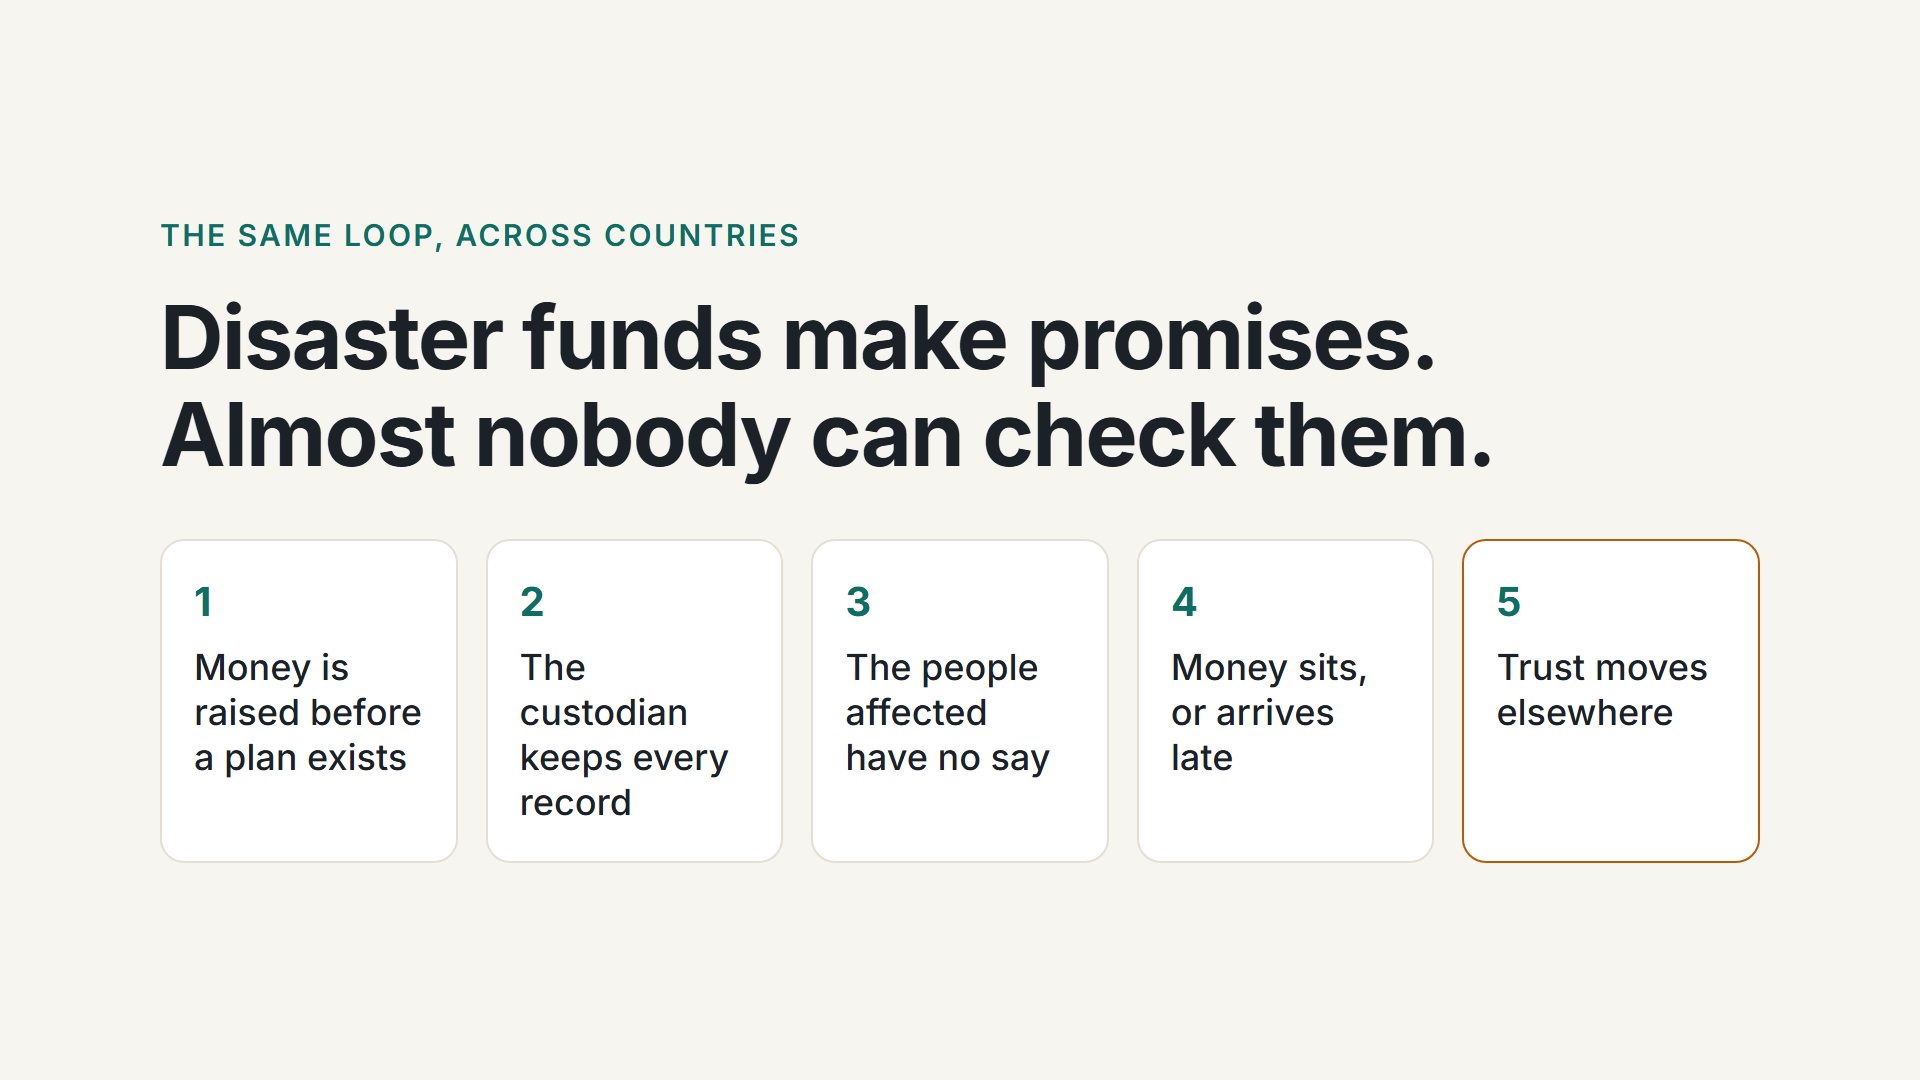
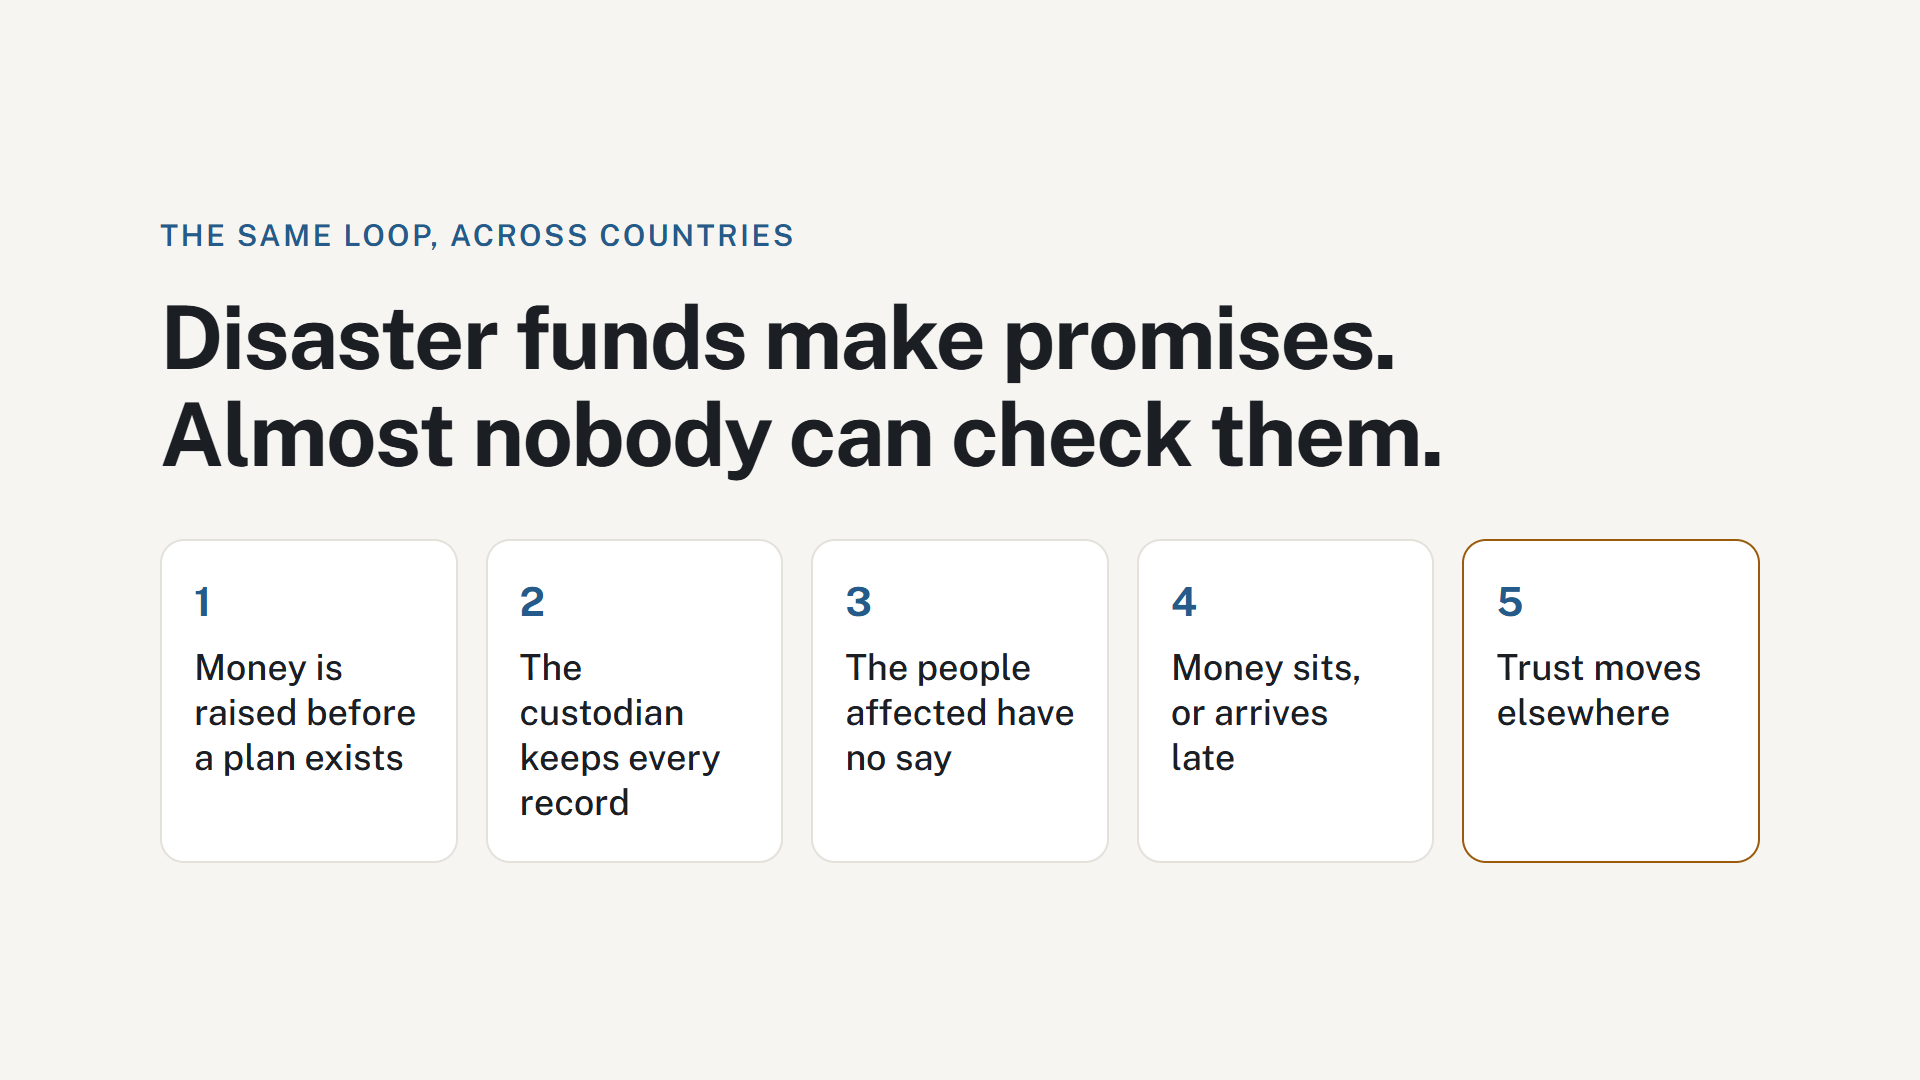
Re-record the demo video on the redesigned site
- Slides use the site's new tokens (Public Sans, blue accent) and its
  icon; render-slides.js regenerates the PNGs.
- Recorder: reduced motion, a blue click ring, and a separate clip of
  the Sample audits section (the dashboard's jump bar also carries that
  label). Editing plan uses it at the end of the reconciliation row.
- Fix a cut timed on the wrong "most" in the real-data row.

diff --git a/docs/submission/video-assets/slides.html b/docs/submission/video-assets/slides.html
@@ -4,18 +4,18 @@
 <meta charset="utf-8">
 <title>Kept video slides</title>
 <link rel="preconnect" href="https://fonts.googleapis.com">
-<link href="https://fonts.googleapis.com/css2?family=Inter:wght@400;500;600;700;800&display=swap" rel="stylesheet">
+<link href="https://fonts.googleapis.com/css2?family=Public+Sans:wght@400;500;600;700;800&display=swap" rel="stylesheet">
 <style>
   /* Each slide is rendered at 1920×1080: open slides.html#3 to see slide 3. Brand tokens match the app. */
-  :root { --paper:#f7f5f0; --ink:#1c2127; --muted:#66707c; --line:#e3dfd6; --accent:#0f6e64; --warn:#b25e09; }
+  :root { --paper:#f6f5f2; --ink:#1b1f24; --muted:#646a73; --line:#e4e1db; --accent:#245b8a; --warn:#9a5b0c; }
   * { box-sizing: border-box; margin: 0; }
   html, body { width: 1920px; height: 1080px; overflow: hidden; }
-  body { font-family: Inter, "Segoe UI", system-ui, sans-serif; background: var(--paper); color: var(--ink); }
+  body { font-family: "Public Sans", "Segoe UI", system-ui, sans-serif; background: var(--paper); color: var(--ink); }
   .slide { display: none; width: 1920px; height: 1080px; padding: 120px 160px; position: relative; }
   .slide.on { display: flex; flex-direction: column; justify-content: center; }
   .dark { background: var(--ink); color: #fff; }
   .kicker { font-size: 30px; font-weight: 600; letter-spacing: .08em; text-transform: uppercase; color: var(--accent); margin-bottom: 36px; }
-  .dark .kicker { color: #6fd3c4; }
+  .dark .kicker { color: #8db6e0; }
   h1 { font-size: 88px; line-height: 1.1; font-weight: 700; letter-spacing: -.02em; }
   .huge { font-size: 168px; font-weight: 800; letter-spacing: -.03em; line-height: 1; font-variant-numeric: tabular-nums; }
   .arrow { font-size: 96px; color: #9aa4af; margin: 28px 0; }
@@ -114,7 +114,7 @@
 
 <!-- 7 · 2:52 Close -->
 <section class="slide dark close">
-  <img src="../../assets/logo.svg" alt="">
+  <img src="../../../web/src/app/icon.svg" alt="">
   <h1>Kept</h1>
   <div style="font-size:52px;margin-top:20px;color:#d7dde3">Disaster-relief promises you can verify</div>
   <div class="links">kept-lilac.vercel.app<br>github.com/ZhenYan1214/kept</div>

diff --git a/docs/submission/video-assets/tools/record.js b/docs/submission/video-assets/tools/record.js
@@ -43,6 +43,7 @@ async function setup() {
     headless: true,
     viewport: { width: 1536, height: 864 },
     deviceScaleFactor: 1.25,
+    reducedMotion: "reduce",
     args: ["--hide-scrollbars"],
   });
   // No animations: a waiting spinner would otherwise produce frames, and idle waits could not be cut.
@@ -84,7 +85,7 @@ async function ring(locator) {
   if (!box) return;
   await page.evaluate(({ x, y }) => {
     const d = document.createElement("div");
-    d.style.cssText = `position:fixed;left:${x - 22}px;top:${y - 22}px;width:44px;height:44px;border-radius:50%;border:4px solid #0f6e64;background:rgba(15,110,100,.15);z-index:99999;pointer-events:none`;
+    d.style.cssText = `position:fixed;left:${x - 22}px;top:${y - 22}px;width:44px;height:44px;border-radius:50%;border:4px solid #245b8a;background:rgba(36,91,138,.15);z-index:99999;pointer-events:none`;
     document.body.appendChild(d);
     setTimeout(() => d.remove(), 900);
   }, { x: box.x + box.width / 2, y: box.y + box.height / 2 });
@@ -210,7 +211,7 @@ async function part1() {
   await go("/", "Sample audits");
   await scrollToEl(page.getByRole("heading", { name: /Where the money is, hand by hand/ }).first(), 100, 2500);
   await sleep(2500);
-  await scrollToEl(page.getByText("Sample audits").first(), 100, 2500);
+  await scrollToEl(page.getByRole("heading", { name: "Sample audits", exact: true }), 100, 2500);
   await sleep(3000);
   await stop();
 
@@ -298,6 +299,14 @@ async function part3() {
   await start("verified");
   await page.getByText(/^Verified household ·/).first().waitFor({ timeout: 180_000 });
   await sleep(2500);
+  await stop();
+  // The dashboard's jump bar also says "Sample audits", so scroll to the section heading itself.
+  await go("/", "Accountability alerts");
+  await page.getByRole("heading", { name: "Sample audits", exact: true }).waitFor({ timeout: 120_000 });
+  await scrollToEl(page.getByRole("heading", { name: "Sample audits", exact: true }), 120, 0);
+  await sleep(800);
+  await start("audits");
+  await sleep(5000);
   await stop();
 }
 

diff --git a/docs/submission/video-assets/tools/render-slides.js b/docs/submission/video-assets/tools/render-slides.js
@@ -1,0 +1,21 @@
+// Renders slides.html to the seven 1920x1080 PNGs the video uses. Usage: node render-slides.js
+const { chromium } = require("playwright-core");
+const path = require("path");
+const { pathToFileURL } = require("url");
+
+const DIR = path.resolve(__dirname, "..");
+const NAMES = ["01-hook", "02-loop", "03-hualien", "04-trust", "05-backtest", "06-why-web3", "07-close"];
+const CHROME = process.env.CHROME || "C:/Program Files/Google/Chrome/Application/chrome.exe";
+
+(async () => {
+  const browser = await chromium.launch({ executablePath: CHROME, headless: true });
+  const page = await browser.newPage({ viewport: { width: 1920, height: 1080 } });
+  for (const [i, name] of NAMES.entries()) {
+    await page.goto(`${pathToFileURL(path.join(DIR, "slides.html")).href}#${i + 1}`);
+    await page.reload(); // the slide is chosen from the hash on load
+    await page.evaluate(() => document.fonts.ready);
+    await page.screenshot({ path: path.join(DIR, `${name}.png`) });
+    console.log("wrote", name);
+  }
+  await browser.close();
+})();

diff --git a/docs/submission/video-assets/tools/compose.js b/docs/submission/video-assets/tools/compose.js
@@ -38,8 +38,8 @@ const still = (name, until) => {
 const plan = [
   [slide("01-hook.png")],
   [slide("02-loop.png", wordAt(1, /^Hualien$/) - 0.6), slide("03-hualien.png", wordAt(1, /^After$/) - 0.3), slide("04-trust.png")],
-  [still("rd-numbers", wordAt(2, /^most$/) - 0.2), still("rd-ministry", wordAt(2, /^eleven$/) - 0.4), still("rd-timeline", wordAt(2, /^Pre-allocating$/) - 0.3), still("rd-trail")],
-  [clip("register"), clip("verified", -2.6), clip("lines")],
+  [still("rd-numbers", wordAt(2, /^most$/, rows[2].words.findIndex((w) => w.w === "pre-allocated")) - 0.2), still("rd-ministry", wordAt(2, /^eleven$/) - 0.4), still("rd-timeline", wordAt(2, /^Pre-allocating$/) - 0.3), still("rd-trail")],
+  [clip("register"), clip("verified", -2.6), clip("lines", undefined, 22.5), clip("audits")],
   [clip("ngo")],
   [clip("committee1"), clip("committee2"), clip("committee3")],
   [slide("06-why-web3.png")],
